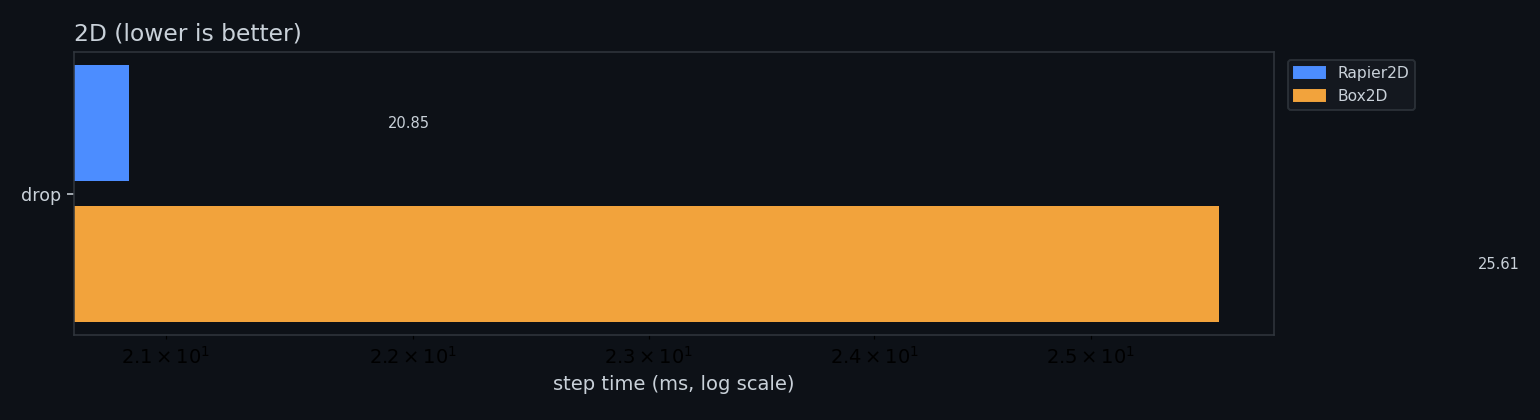
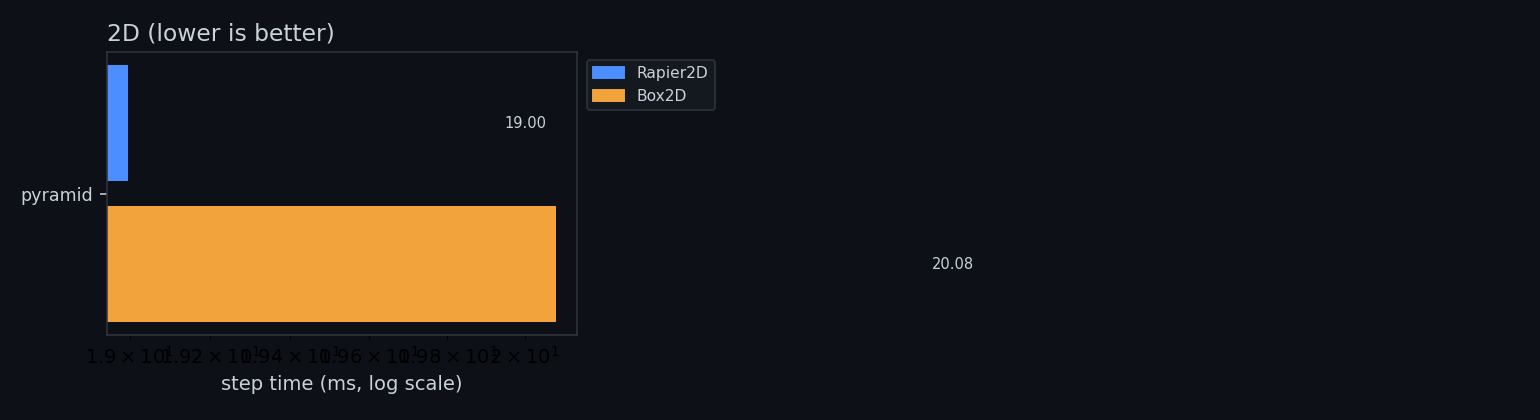
updwip
remove DS_STore files

diff --git a/README.md b/README.md
@@ -6,69 +6,98 @@ same way.
 | track | engines |
 |---|---|
 | **2D** | [Rapier](https://github.com/appsinacup/godot-rapier-physics) · [Box2D v3](https://github.com/Pizzaandy/godot-box2d-v3) |
-| **3D** | [Rapier](https://github.com/appsinacup/godot-rapier-physics) · Jolt Physics (built into Godot 4.4+) |
-
-Jolt is 3D-only and Box2D is 2D-only, so there is no single three-way comparison.
+| **3D** | [Rapier](https://github.com/appsinacup/godot-rapier-physics) · Jolt (in Godot 4.4+) · [Box3D](https://github.com/bearlikelion/godot-box3d) |
 
 **[→ Results](docs/REPORT.md)** · **[→ Method and caveats](SPEC.md)**
 
 ## Run it
 
-Addons are committed, so a clone is all you need.
+Addons are committed, so a clone is all you need. Every case measures 5 seconds.
 
 ```bash
-./run_bench.sh                      # both tracks, writes docs/REPORT.md
+./run_bench.sh                              # both tracks, writes docs/REPORT.md
 ./run_bench.sh --dim 2d --cases pyramid
-./capture_shots.sh                  # per-engine screenshots at an identical tick
-python3 make_pdf.py                 # shareable PDF + self-contained HTML
+./run_bench.sh --dim 3d --repeats 3         # average out noise
+./capture_shots.sh                          # screenshots at an identical tick
+python3 make_pdf.py                         # PDF + self-contained HTML
 ```
 
-`--with-godot` adds Godot's built-in server as a reference column. It is an order of
-magnitude slower at these body counts, which is why it is not in the default path.
+`--with-godot` adds Godot's built-in server as a reference column.
+
+Each run writes JSON to `results/`: `step_ms` (min/mean/p50/p95/p99/max), `cpu`
+(`cores_used`, `peak_rss_mb`), `body_count`, and a determinism `fingerprint`.
 
 ## Watch a case
 
-Open `bench2d/` or `bench3d/` in Godot and press play. Pick engine and case from the menu;
-switching engine restarts, because Godot reads `physics/{2d,3d}/physics_engine` once at
-startup. In the viewer: `esc` menu, `space` pause, `r` restart, `d` toggle shape drawing.
+```bash
+./record_helper.sh 2d Rapier2D pyramid      # one case, windowed at 1920x1080
+./record_helper.sh 2d Rapier2D all          # every case back to back, 5s each
+RES=3840x2160 SECS=8 ./record_helper.sh 3d "Jolt Physics" all
+```
+
+Engine names must match what the extension registers, and they differ between addons:
+
+| track | names |
+|---|---|
+| 2D | `Rapier2D`, `Box2D`, `GodotPhysics2D` |
+| 3D | `Rapier3D`, `Jolt Physics`, `Box3D Physics`, `GodotPhysics3D` |
+
+Note the trailing ` Physics` in 3D. A wrong name makes Godot fall back to its own server
+silently, so `record_helper.sh` validates it and refuses to launch.
+
+Or open `bench2d/` / `bench3d/` in Godot and press play. In the viewer: `esc` menu,
+`space` pause, `r` restart, `d` toggle shape drawing.
+
+## Building Rapier from source
+
+The plugin repo is expected alongside this one at `~/Documents/godot-rapier-2d`.
+
+```bash
+cd ~/Documents/godot-rapier-2d
+./scripts/build-rel-2d.sh                   # or build-rel-3d.sh
+```
+
+That writes into the plugin repo's own `bin2d/`, so copy it here before measuring — otherwise
+you benchmark the committed build:
+
+```bash
+rsync -a ~/Documents/godot-rapier-2d/bin2d/addons/godot-rapier2d/ bench2d/addons/godot-rapier2d/
+```
+
+Use a release build for any number you quote; debug builds are several times slower.
+
+## Prebuilt addons
+
+| addon | where |
+|---|---|
+| Rapier | [releases](https://github.com/appsinacup/godot-rapier-physics/releases) |
+| Box2D v3 | [releases](https://github.com/Pizzaandy/godot-box2d-v3/releases) |
+| Box3D | [releases](https://github.com/bearlikelion/godot-box3d/releases) |
+| Jolt | ships with Godot 4.4+ |
+
+Only macOS arm64 is committed. For other platforms drop the libraries into
+`bench{2,3}d/addons/*/bin/` and extend the `.gdextension` files.
 
 ## Cases
 
-| case | 2D bodies | measures |
+| case | bodies | measures |
 |---|---:|---|
-| `pyramid` | 10,000 | solver throughput, box-box |
-| `mixed_pile` | 5,000 | narrow phase: circle, capsule, convex polygon |
+| `pyramid` | 10,000 / 3,795 | solver throughput, box-box |
+| `mixed_pile` | 5,000 | narrow phase: circle, capsule, convex |
 | `joint_grid` | 5,000 / ~9,950 joints | constraints |
-| `smash` | 5,000 | high-energy impact |
-| `query_storm` | 10,000 + 900 queries/tick | acceleration structure |
+| `smash` | 5,001 | high-energy impact |
+| `query_storm` | 2,000 + ~900 queries/tick | acceleration structure |
+| `drop` | 8,000 | falling, colliding, settling pile |
 
-## Two things to know before quoting a number
-
-**Godot falls back to its default physics server silently** when the configured engine is
-missing — no error, no warning, and the resulting table looks perfectly normal. Two guards
-run every sweep: a pre-flight check that the requested engines actually registered, and a
-per-run fingerprint of the final body poses that must differ between engines. A collision
-means one of them was the fallback.
-
-**Timing is CPU time.** A busy machine inflates every figure. `run_bench.sh` records the load
-average into `results/environment.json`; if it is a significant fraction of your core count,
-the ratios still hold but the milliseconds are not comparable to a run on an idle machine.
-
-## Adding platforms
-
-Only macOS arm64 binaries are committed. For other platforms, drop the matching libraries
-into `bench2d/addons/*/bin/` and `bench3d/addons/*/bin/` and extend the `.gdextension` files.
-Rapier releases cover every platform; Box2D v3 builds from source with SCons.
+`BENCH_DROP_COUNT` and `BENCH_DROP_COLS` override the drop scene.
 
 ## Layout
 
 ```
 bench2d/  bench3d/    Godot projects: cases/, framework/, addons/
 run_bench.sh          sweep driver
-capture_shots.sh      per-engine screenshots at a fixed tick
+record_helper.sh      windowed playback for screen recording
+capture_shots.sh      screenshots at a fixed tick
 make_report.py        results/ -> docs/REPORT.md + charts
-make_pdf.py           REPORT.md -> PDF + self-contained HTML
+make_pdf.py           REPORT.md -> PDF + HTML
 ```
-
-Framework scripts are duplicated in `bench2d/framework/` and `bench3d/framework/` rather than
-symlinked, because a git symlink checks out as a text file on Windows. Keep them in sync.

diff --git a/docs/REPORT.md b/docs/REPORT.md
@@ -1,6 +1,6 @@
 # Godot physics engine benchmark
 
-Godot 4.7-stable (official) · 240 timed steps · 60 Hz · single run · lower is better.
+Godot 4.7-stable (official) · 300 timed steps · 60 Hz · single run · lower is better.
 
 ## 2D (lower is better)
 
@@ -8,9 +8,13 @@ Godot 4.7-stable (official) · 240 timed steps · 60 Hz · single run · lower i
 
 ![2d relative](chart_2d_rel.png)
 
-### `drop` (2d)
+### `pyramid` (2d)
+
+| Rapier2D | Box2D |
+|---|---|
+| ![Rapier2D](shots/2d_pyramid_Rapier2D.png) | ![Box2D](shots/2d_pyramid_Box2D.png) |
 
 | engine | step p50 | step p99 | vs Rapier2D |
 |---|---:|---:|---:|
-| **Rapier2D** | **20.85 ms** | 33.23 ms | — |
-| Box2D | 25.61 ms | 48.95 ms | 1.23x |
+| **Rapier2D** | **19.00 ms** | 25.80 ms | — |
+| Box2D | 20.08 ms | 39.74 ms | 1.06x |
